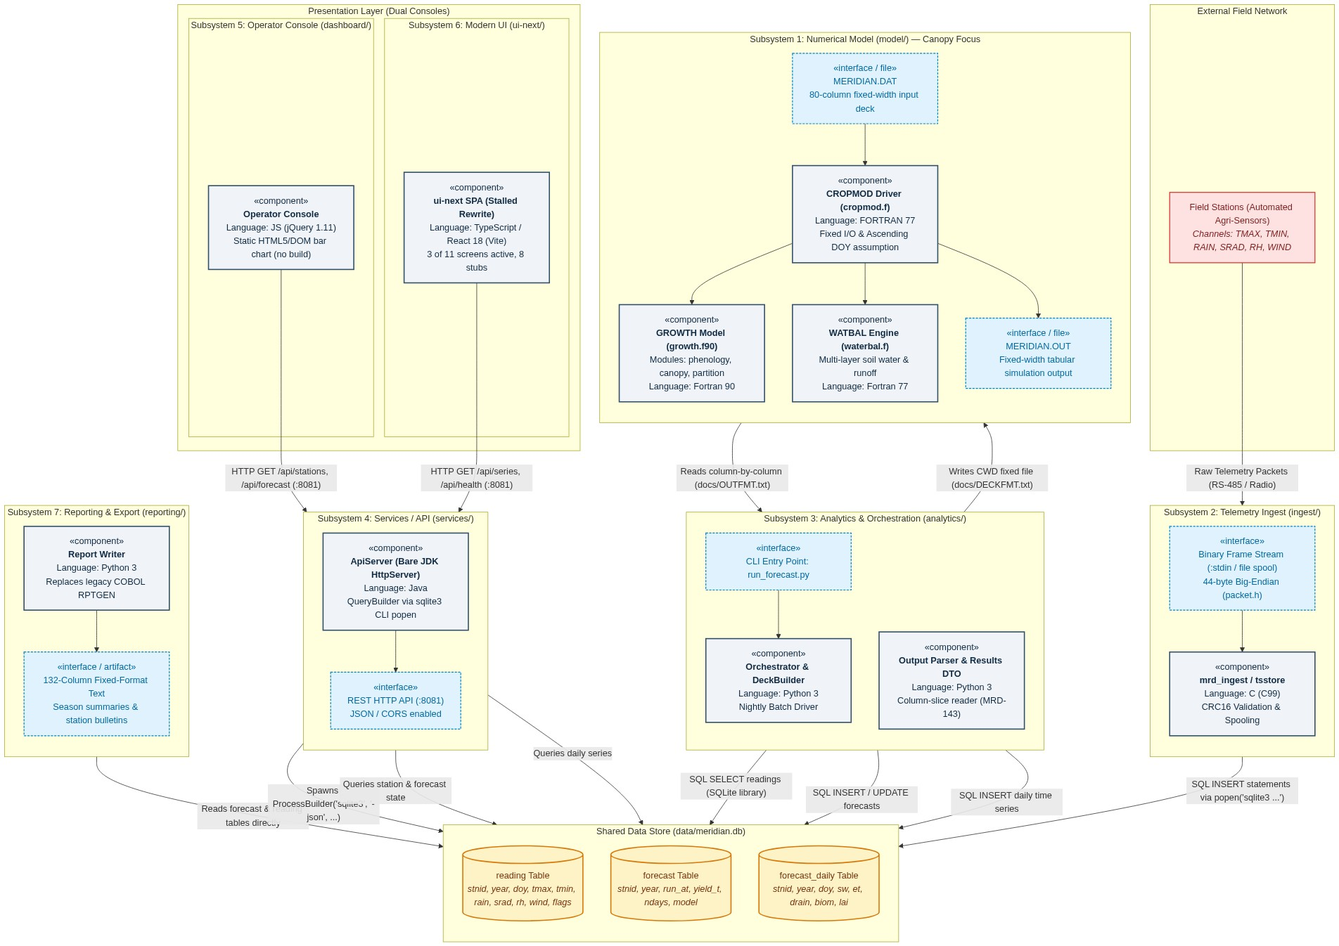
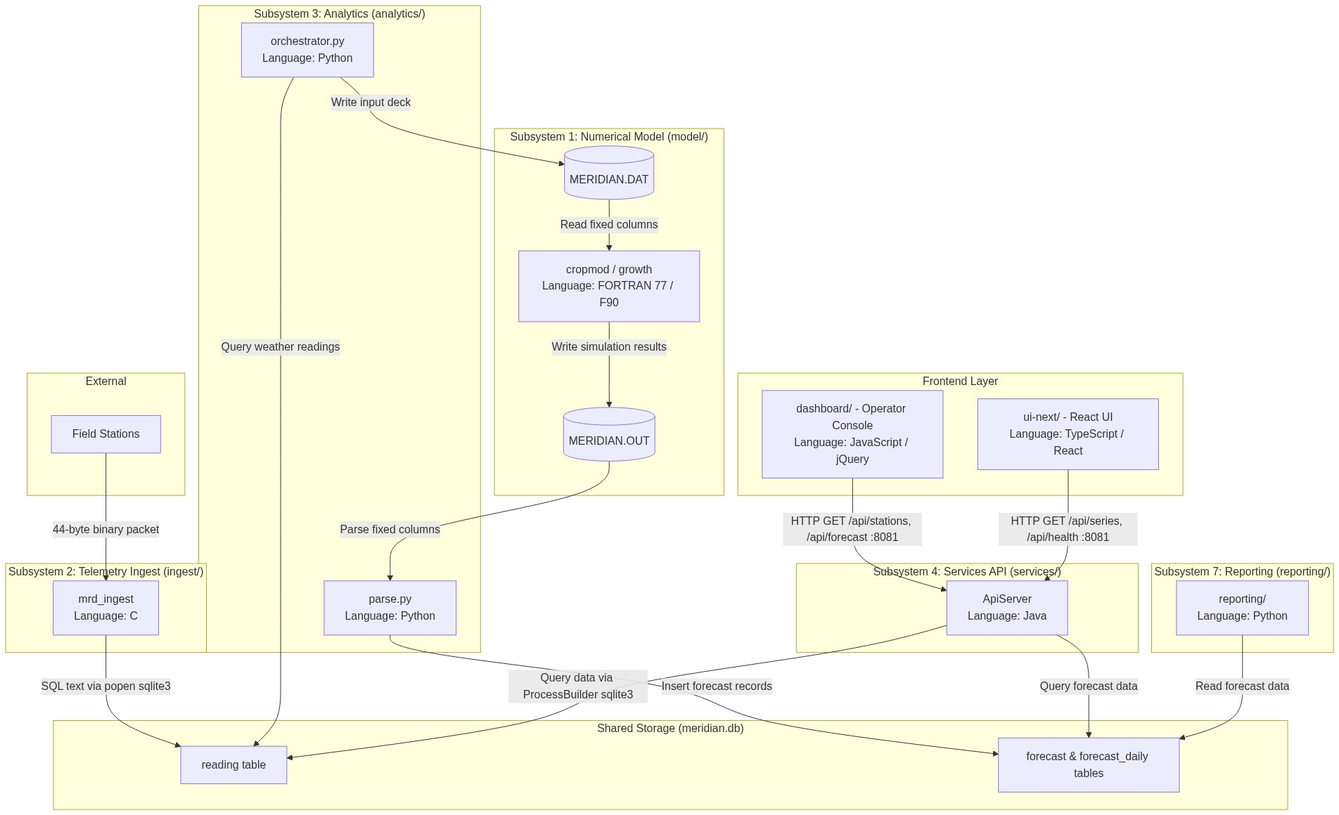
Major Part 1 overhaul; edited, fixed, and confirmed AI output

diff --git a/docs/part1_system_map.md b/docs/part1_system_map.md
@@ -1,248 +1,117 @@
-# Part 1: System Map & README Audit (Whole System)
+# Part 1: System Map (Whole System)
 
-**Team:** Canopy  
-**Subsystem Focus:** Numerical Model (`model/` — Crop-growth / `cropmod`)  
-**Deliverable:** Recovered System Architecture, UML Component Model, and Documentation Audit  
+## Subsystem Overview
 
----
+The Meridian codebase is split across seven subsystems and five programming languages (FORTRAN, C, Python, Java, and JavaScript/TypeScript). Each subsystem has a specific role and interface:
 
-## 1. Executive Summary: Recovered Real Architecture
-
-Meridian is not a conventional 3-tier web application as claimed in its legacy documentation. Through code reconnaissance and git archaeology, the actual system is revealed to be a **seven-subsystem, polyglot agri-environmental monitoring and yield-forecasting pipeline** spanning three decades of engineering (1994–2026) across five programming languages (FORTRAN 77/90, C99, Python 3, Java, and TypeScript/JavaScript).
-
-Rather than communicating through modern enterprise message buses or an ORM-backed relational database cluster, Meridian operates as a **hybrid batch pipeline centred around an embedded SQLite flat-file store and fixed-format file I/O**:
-1. Field telemetry is ingested via a native **C** daemon (`ingest/`).
-2. An embedded **SQLite** database (`data/meridian.db`) serves as the universal decoupled message bus.
-3. A **Python** analytics engine (`analytics/`) extracts raw observations and constructs rigid, 80-column punchcard-era input decks (`MERIDIAN.DAT`).
-4. A legacy **FORTRAN 77 / Fortran 90** agronomic simulation engine (`model/cropmod`) runs synchronously in the current working directory, writing fixed-width output (`MERIDIAN.OUT`).
-5. The Python analytics layer slices the model output column-by-column to populate forecast tables.
-6. A stripped-down **Java** HTTP server (`services/`) shells out to the `sqlite3` CLI tool to serve JSON REST endpoints.
-7. **Two separate frontends** co-exist in production: a legacy jQuery console (`dashboard/`) and a stalled 2023 React SPA rewrite (`ui-next/`).
-8. A standalone **Python** reporting package (`reporting/`) outputs 132-column text bulletins directly for field agronomists.
-
----
-
-## 2. Subsystem Decomposition Table
-
-The table below describes the seven real subsystems recovered from the source tree:
-
-| # | Subsystem & Path | Implementation Language | One-Line Responsibility | Exposed Interface & Protocol |
+| Subsystem | Directory | Language | Responsibility | Exposed Interface |
 |---|---|---|---|---|
-| **1** | **Numerical Model**<br>`model/` | FORTRAN 77 & Fortran 90 | Simulates soil-water balance, daily crop canopy development, and grain yield accumulation. | **File I/O Interface:** Reads column-exact 80-column `MERIDIAN.DAT` on Unit 10; writes column-exact `MERIDIAN.OUT` on Unit 20 in CWD. |
-| **2** | **Telemetry Ingest**<br>`ingest/` | C (C99 standard) | Decodes binary field-station packets, validates CRC-16 checksums and quality flags, and spools readings. | **Binary Stream Interface:** Consumes 44-byte big-endian frames (`packet.h`) via stdin or spool files; outputs SQL via `popen("sqlite3 ...")`. |
-| **3** | **Analytics & Orchestration**<br>`analytics/` | Python 3 | Orchestrates nightly forecast runs: queries readings, formats Fortran decks, executes `cropmod`, parses output, and persists forecasts. | **CLI / Python Module Interface:** Invoked via `run_forecast.py` / `orchestrator.py`; reads `reading` table; populates `forecast` and `forecast_daily` SQLite tables. |
-| **4** | **Services / API**<br>`services/` | Java (bare JDK `HttpServer`) | Exposes weather series, station registries, and yield forecasts over HTTP for client applications. | **HTTP/JSON REST API:** Serves endpoints on port `8081` (`/api/health`, `/api/stations`, `/api/forecast`, `/api/series`, `/api/anomalies`, `/api/summary`) with CORS enabled. |
-| **5** | **Operator Console**<br>`dashboard/` | JavaScript (jQuery 1.11), HTML5, CSS | Provides a zero-build legacy web dashboard with tabular station monitors and a hand-rolled DOM bar chart. | **HTTP Web UI:** Served on port `8080` (static HTML/CSS/JS assets); consumes REST API on port `8081`. |
-| **6** | **ui-next**<br>`ui-next/` | TypeScript, React 18, Vite | Stalled 2023 modern single-page console rewrite (3 of 11 screens active: Stations, Forecast, Health; 8 screens stubbed). | **Modern Web SPA:** Served via Vite dev server (`:5173`) or static bundle; consumes REST API on port `8081`. |
-| **7** | **Reporting & Export**<br>`reporting/` | Python 3 | Generates fixed-format 132-column text reports and seasonal yield summaries for provincial agronomists. | **CLI Suite Interface:** Invoked via `python -m reporting ...`; reads SQLite forecast tables; emits fixed-format text bulletins to stdout or files. |
+| **Numerical Model** | `model/` | FORTRAN 77 / F90 | Computes daily soil moisture, crop canopy growth, and final grain yield. | Reads `MERIDIAN.DAT` and writes `MERIDIAN.OUT` in the current working directory. |
+| **Telemetry Ingest** | `ingest/` | C | Parses 44-byte binary station frames, validates CRC-16 checksums, and saves readings. | Binary frame stream on stdin or spool file (`packet.h`); writes to SQLite `reading` table. |
+| **Analytics & Orchestration** | `analytics/` | Python | Runs the nightly batch by extracting readings, building model decks, executing `cropmod`, and saving forecasts. | CLI script `run_forecast.py`; writes to SQLite `forecast` and `forecast_daily` tables. |
+| **Services / API** | `services/` | Java | Serves station data, weather series, and forecast summaries to the web frontends. | REST HTTP API on port 8081 (`/api/forecast`, `/api/series`, `/api/stations`, `/api/health`). |
+| **Operator Console** | `dashboard/` | JavaScript (jQuery) | Legacy operator dashboard showing station tables and a DOM-based bar chart without a build step. | Static web assets served on port 8080 (makes HTTP calls to port 8081). |
+| **ui-next** | `ui-next/` | TypeScript / React | Work-in-progress React replacement for the console (3 of 11 screens implemented, 8 stubs). | Single-page web application served on port 5173 (makes HTTP calls to port 8081). |
+| **Reporting & Export** | `reporting/` | Python | Produces fixed-format 132-column text reports and seasonal summaries for agronomists. | CLI suite (`python -m reporting`); reads SQLite forecast tables and prints text reports. |
 
 ---
 
-## 3. Architecture Component Diagram
+## Architecture Component Diagram
 
-The UML Component Diagram below illustrates all seven subsystems, their languages, persistent data boundaries, and control/data vectors.
+The diagram below shows the seven subsystems, their implementation languages, and how data and control pass between them:
 
 ```mermaid
 flowchart TB
-    %% ========================================================
-    %% MERIDIAN ARCHAEOLOGY - A2 SYSTEM MAP COMPONENT DIAGRAM
-    %% Team Canopy: Whole-System Architecture
-    %% ========================================================
-
-    subgraph EXTERNAL["External Field Network"]
-        FS["Field Stations (Automated Agri-Sensors)<br><i>Channels: TMAX, TMIN, RAIN, SRAD, RH, WIND</i>"]
+    subgraph External
+        FS[Field Stations]
     end
 
-    subgraph SUBSYSTEM_INGEST["Subsystem 2: Telemetry Ingest (ingest/)"]
-        direction TB
-        ING_COMP["&laquo;component&raquo;<br><b>mrd_ingest / tsstore</b><br>Language: C (C99)<br>CRC16 Validation &amp; Spooling"]
-        ING_IF["&laquo;interface&raquo;<br>Binary Frame Stream (:stdin / file spool)<br>44-byte Big-Endian (packet.h)"]
-        ING_IF --> ING_COMP
+    subgraph "Subsystem 2: Telemetry Ingest (ingest/)"
+        ING[mrd_ingest<br/>Language: C]
     end
 
-    subgraph STORAGE["Shared Data Store (data/meridian.db)"]
-        direction TB
-        DB_READING[("reading Table<br><i>stnid, year, doy, tmax, tmin, rain, srad, rh, wind, flags</i>")]
-        DB_FORECAST[("forecast Table<br><i>stnid, year, run_at, yield_t, ndays, model</i>")]
-        DB_DAILY[("forecast_daily Table<br><i>stnid, year, doy, sw, et, drain, biom, lai</i>")]
+    subgraph "Shared Storage (meridian.db)"
+        DB_READ[reading table]
+        DB_FC[forecast & forecast_daily tables]
     end
 
-    subgraph SUBSYSTEM_ANALYTICS["Subsystem 3: Analytics &amp; Orchestration (analytics/)"]
-        direction TB
-        ORCH_COMP["&laquo;component&raquo;<br><b>Orchestrator &amp; DeckBuilder</b><br>Language: Python 3<br>Nightly Batch Driver"]
-        PARSE_COMP["&laquo;component&raquo;<br><b>Output Parser &amp; Results DTO</b><br>Language: Python 3<br>Column-slice reader (MRD-143)"]
-        ORCH_CLI["&laquo;interface&raquo;<br>CLI Entry Point: run_forecast.py"]
-        ORCH_CLI --> ORCH_COMP
+    subgraph "Subsystem 3: Analytics (analytics/)"
+        ORCH[orchestrator.py<br/>Language: Python]
+        PARSER[parse.py<br/>Language: Python]
     end
 
-    subgraph SUBSYSTEM_MODEL["Subsystem 1: Numerical Model (model/) &mdash; Canopy Focus"]
-        direction TB
-        MODEL_DRIVER["&laquo;component&raquo;<br><b>CROPMOD Driver (cropmod.f)</b><br>Language: FORTRAN 77<br>Fixed I/O &amp; Ascending DOY assumption"]
-        MODEL_GROWTH["&laquo;component&raquo;<br><b>GROWTH Model (growth.f90)</b><br>Modules: phenology, canopy, partition<br>Language: Fortran 90"]
-        MODEL_WATBAL["&laquo;component&raquo;<br><b>WATBAL Engine (waterbal.f)</b><br>Multi-layer soil water &amp; runoff<br>Language: Fortran 77"]
-        
-        MODEL_DRIVER --> MODEL_GROWTH
-        MODEL_DRIVER --> MODEL_WATBAL
-        
-        IN_DECK["&laquo;interface / file&raquo;<br>MERIDIAN.DAT<br>80-column fixed-width input deck"]
-        OUT_FILE["&laquo;interface / file&raquo;<br>MERIDIAN.OUT<br>Fixed-width tabular simulation output"]
-        
-        IN_DECK --> MODEL_DRIVER
-        MODEL_DRIVER --> OUT_FILE
+    subgraph "Subsystem 1: Numerical Model (model/)"
+        MODEL[cropmod / growth<br/>Language: FORTRAN 77 / F90]
+        IN_FILE[(MERIDIAN.DAT)]
+        OUT_FILE[(MERIDIAN.OUT)]
     end
 
-    subgraph SUBSYSTEM_SERVICES["Subsystem 4: Services / API (services/)"]
-        direction TB
-        API_COMP["&laquo;component&raquo;<br><b>ApiServer (Bare JDK HttpServer)</b><br>Language: Java<br>QueryBuilder via sqlite3 CLI popen"]
-        API_IF["&laquo;interface&raquo;<br>REST HTTP API (:8081)<br>JSON / CORS enabled"]
-        API_COMP --> API_IF
+    subgraph "Subsystem 4: Services API (services/)"
+        API[ApiServer<br/>Language: Java]
     end
 
-    subgraph CLIENTS["Presentation Layer (Dual Consoles)"]
-        subgraph SUBSYSTEM_DASHBOARD["Subsystem 5: Operator Console (dashboard/)"]
-            DASH_COMP["&laquo;component&raquo;<br><b>Operator Console</b><br>Language: JS (jQuery 1.11)<br>Static HTML5/DOM bar chart (no build)"]
-        end
-
-        subgraph SUBSYSTEM_UINEXT["Subsystem 6: Modern UI (ui-next/)"]
-            UINEXT_COMP["&laquo;component&raquo;<br><b>ui-next SPA (Stalled Rewrite)</b><br>Language: TypeScript / React 18 (Vite)<br>3 of 11 screens active, 8 stubs"]
-        end
+    subgraph "Frontend Layer"
+        DASH[dashboard/ - Operator Console<br/>Language: JavaScript / jQuery]
+        UINEXT[ui-next/ - React UI<br/>Language: TypeScript / React]
     end
 
-    subgraph SUBSYSTEM_REPORTING["Subsystem 7: Reporting &amp; Export (reporting/)"]
-        direction TB
-        REP_COMP["&laquo;component&raquo;<br><b>Report Writer</b><br>Language: Python 3<br>Replaces legacy COBOL RPTGEN"]
-        REP_OUT["&laquo;interface / artifact&raquo;<br>132-Column Fixed-Format Text<br>Season summaries &amp; station bulletins"]
-        REP_COMP --> REP_OUT
+    subgraph "Subsystem 7: Reporting (reporting/)"
+        REP[reporting/<br/>Language: Python]
     end
 
-    %% Data and Control Flow Interconnections
-    FS -->|"Raw Telemetry Packets (RS-485 / Radio)"| ING_IF
-    ING_COMP -->|"SQL INSERT statements via popen('sqlite3 ...')"| DB_READING
+    %% Data and control connections
+    FS -->|44-byte binary packet| ING
+    ING -->|SQL text via popen sqlite3| DB_READ
 
-    ORCH_COMP -->|"SQL SELECT readings (SQLite library)"| DB_READING
-    ORCH_COMP -->|"Writes CWD fixed file (docs/DECKFMT.txt)"| IN_DECK
-    OUT_FILE -->|"Reads column-by-column (docs/OUTFMT.txt)"| PARSE_COMP
-    PARSE_COMP -->|"SQL INSERT / UPDATE forecasts"| DB_FORECAST
-    PARSE_COMP -->|"SQL INSERT daily time series"| DB_DAILY
+    ORCH -->|Query weather readings| DB_READ
+    ORCH -->|Write input deck| IN_FILE
+    IN_FILE -->|Read fixed columns| MODEL
+    MODEL -->|Write simulation results| OUT_FILE
+    OUT_FILE -->|Parse fixed columns| PARSER
+    PARSER -->|Insert forecast records| DB_FC
 
-    API_COMP -->|"Spawns ProcessBuilder('sqlite3', '-json', ...)"| DB_READING
-    API_COMP -->|"Queries station &amp; forecast state"| DB_FORECAST
-    API_COMP -->|"Queries daily series"| DB_DAILY
+    API -->|Query data via ProcessBuilder sqlite3| DB_READ
+    API -->|Query forecast data| DB_FC
 
-    DASH_COMP -->|"HTTP GET /api/stations, /api/forecast (:8081)"| API_IF
-    UINEXT_COMP -->|"HTTP GET /api/series, /api/health (:8081)"| API_IF
+    DASH -->|HTTP GET /api/stations, /api/forecast :8081| API
+    UINEXT -->|HTTP GET /api/series, /api/health :8081| API
 
-    REP_COMP -->|"Reads forecast &amp; reading tables directly"| STORAGE
-
-    %% Styling
-    classDef comp fill:#f0f4f8,stroke:#334e68,stroke-width:2px,color:#102a43;
-    classDef iface fill:#e0f2fe,stroke:#0284c7,stroke-width:1.5px,stroke-dasharray: 4 2,color:#0369a1;
-    classDef store fill:#fef3c7,stroke:#d97706,stroke-width:2px,color:#78350f;
-    classDef ext fill:#fee2e2,stroke:#dc2626,stroke-width:1.5px,color:#7f1d1d;
-
-    class ING_COMP,ORCH_COMP,PARSE_COMP,MODEL_DRIVER,MODEL_GROWTH,MODEL_WATBAL,API_COMP,DASH_COMP,UINEXT_COMP,REP_COMP comp;
-    class ING_IF,IN_DECK,OUT_FILE,API_IF,REP_OUT,ORCH_CLI iface;
-    class DB_READING,DB_FORECAST,DB_DAILY store;
-    class FS ext;
+    REP -->|Read forecast data| DB_FC
 ```
 
----
+### Data and Control Flow Summary
 
-## 4. Where Does the README Lie? (Documentation vs. Reality Audit)
-
-The repository's top-level [README.md](file:///Users/unsurhussain/Meridian-Archaeology-Canopy/README.md) was originally committed on **2015-11-04** (commit `66a45e3` by D. Ferreira) and has not been updated to reflect the substantial architectural migrations of the past decade. It paints a picture of an orthodox Java EE / Spring application backed by PostgreSQL. In reality, trusting this README would completely derail a new maintainer.
-
-Below are **four concrete falsehoods** in the project's documentation, cross-referenced with exact code citations and git history:
-
-### Lie 1: The Database Architecture (PostgreSQL vs. Embedded SQLite)
-* **README Claim (Line 19):**
-  > *"The reading store is a PostgreSQL instance on `db01.meridian.internal`."*
-* **What the Code Actually Does:**
-  There is **no PostgreSQL database anywhere in Meridian**. There is no JDBC driver, no connection pool, and no TCP connection string to any database server. The true reading and forecast store is a local, embedded **SQLite flat file** (`data/meridian.db`). 
-* **Concrete Proof in Code:**
-  1. **Ingest Subsystem:** In [ingest/src/tsstore.c:L27-28](file:///Users/unsurhussain/Meridian-Archaeology-Canopy/ingest/src/tsstore.c#L27-L28), the C collector establishes its storage pipeline by executing:
-     ```c
-     snprintf(cmd, sizeof(cmd), "sqlite3 %s", g_path);
-     g_pipe = popen(cmd, "w");
-     ```
-     It literally pipes raw SQL text directly into the command-line `sqlite3` process!
-  2. **Services Subsystem:** In [services/src/ca/meridian/db/Db.java:L13-32](file:///Users/unsurhussain/Meridian-Archaeology-Canopy/services/src/ca/meridian/db/Db.java#L13-L32), the author A. Okonkwo explicitly writes:
-     > *"The collector host never had the SQLite JDBC driver installed and the deployment process for adding one was never agreed, so this class shells out to the sqlite3 command line and reads its JSON output. It was meant to be temporary. See MRD-77."*
-     The query execution uses:
-     ```java
-     ProcessBuilder pb = new ProcessBuilder("sqlite3", "-json", dbPath, sql);
-     ```
-  3. **Analytics Subsystem:** In [analytics/meridian/store.py:L26-30](file:///Users/unsurhussain/Meridian-Archaeology-Canopy/analytics/meridian/store.py#L26-L30), Python uses standard `sqlite3.connect(self.db_path)`.
-* **Hazard:** A maintainer attempting to provision a PostgreSQL server or connect via port 5432 will find zero code that connects to it.
+1. **Ingest:** Field stations transmit 44-byte binary frames to `ingest/`. The C collector validates the packet CRC-16 and pipes SQL `INSERT` commands into the local SQLite database (`meridian.db`).
+2. **Nightly Batch:** The Python orchestrator (`analytics/orchestrator.py`) queries the `reading` table, prepares a fixed-width input deck named `MERIDIAN.DAT`, and calls the Fortran binary (`model/cropmod`).
+3. **Model Execution:** `cropmod` runs `waterbal.f` and `growth.f90`, then writes the output to `MERIDIAN.OUT`. The Python parser reads `MERIDIAN.OUT` by column position (handling column overflows per ticket MRD-143) and stores the results in the `forecast` and `forecast_daily` tables.
+4. **API and Display:** The Java HTTP server (`services/ApiServer.java`) reads SQLite rows and serves JSON responses on port 8081. Both frontends (`dashboard/` and `ui-next/`) fetch data from this API. The Python reporting tool (`reporting/`) reads SQLite directly to output text bulletins.
 
 ---
 
-### Lie 2: Subsystem Scope (Three-Tier App vs. Seven Subsystems)
-* **README Claim (Lines 11–17):**
-  > *"Meridian is a three-tier application: 1. Collector (`ingest/`), 2. Application server (`services/`), 3. Web client (`dashboard/`)."*
-* **What the Code Actually Does:**
-  The README omits **more than half of the codebase**! Meridian is a seven-subsystem distributed data processing pipeline. Most critically, the README fails to mention:
-  * `model/`: The entire 30-year-old core agronomy simulation engine written in FORTRAN 77 and Fortran 90 ([cropmod.f](file:///Users/unsurhussain/Meridian-Archaeology-Canopy/model/cropmod.f), [growth.f90](file:///Users/unsurhussain/Meridian-Archaeology-Canopy/model/growth.f90)).
-  * `analytics/`: The Python batch orchestrator that runs nightly forecasts, parses output, and aggregates stats.
-  * `reporting/`: The Python reporting suite that generates 132-column text bulletins.
-  * `ui-next/`: The active, stalled React 18 / TypeScript SPA rewrite. Both consoles currently ship simultaneously!
-* **Hazard:** A developer reading the README would not even know that Fortran compilers (`gfortran`) or Python environments are required to execute the core business value of Meridian (crop yield forecasting).
+## Where Does the README Lie?
 
----
+The top-level `README.md` was written in November 2015 (commit `66a45e3`) and has not been kept up to date with the actual codebase. A new maintainer relying on it would be misled in several critical ways:
 
-### Lie 3: Batch Scheduling & Server Framework (Spring Boot Quartz vs. Bare JDK & Python Cron)
-* **README Claim (Lines 15–16 & 27–30):**
-  > *"Application server (`services/`) is a Spring Boot application exposing the REST API and the scheduled batch jobs... The batch is scheduled by the application server's Quartz configuration. See `services/src/main/resources/quartz.properties`."*
-* **What the Code Actually Does:**
-  * The file `services/src/main/resources/quartz.properties` **does not exist**.
-  * Spring Boot was completely decommissioned in February 2017 (commit `e3acae7` by M. Brandt: *"Reduce service layer to the JDK HTTP server; add DTOs"*).
-  * In [services/src/ca/meridian/api/ApiServer.java:L17-21](file:///Users/unsurhussain/Meridian-Archaeology-Canopy/services/src/ca/meridian/api/ApiServer.java#L17-L21), the code documents:
-    > *"Started as a Spring application in 2014 and reduced to the JDK HTTP server in 2017 when the container host was retired. The package layout still reflects the Spring structure."*
-    The server uses `com.sun.net.httpserver.HttpServer`.
-  * The Java application server schedules **nothing**. The nightly batch is driven by a standalone Python CLI script invoked by host `cron`: [analytics/run_forecast.py:L2](file:///Users/unsurhussain/Meridian-Archaeology-Canopy/analytics/run_forecast.py#L2):
-    > *"Nightly forecast entry point. Invoked from cron on the app host."*
-* **Hazard:** Looking for Spring annotations, `@Scheduled` tasks, or Quartz jobs will lead nowhere; changes made expecting Spring dependency injection will fail to compile.
+### 1. The Database Architecture Lie
+* **README Claim (Line 19):**  
+  *"The reading store is a PostgreSQL instance on `db01.meridian.internal`."*
+* **What the Code Actually Does:**  
+  There is no PostgreSQL instance or client library in the repository. The system uses a local, flat-file **SQLite** database (`meridian.db`). Furthermore, neither the C ingest tool nor the Java service link to a database driver:
+  * In `ingest/src/tsstore.c` (lines 27–28), the collector calls `popen("sqlite3 ...")` to run SQL statements.
+  * In `services/src/ca/meridian/db/Db.java` (lines 13–18 and 30), the author notes they could not install a JDBC driver and instead uses `ProcessBuilder("sqlite3", "-json", ...)` to shell out to the CLI.
 
----
+### 2. The Application Architecture Lie
+* **README Claim (Lines 11–17):**  
+  Meridian is described as a *"three-tier application"* consisting of only the Collector (`ingest/`), Application server (`services/`), and Web client (`dashboard/`).
+* **What the Code Actually Does:**  
+  Meridian actually contains **seven distinct subsystems across five languages**. The README completely ignores:
+  * `model/`: The core numerical crop and water balance model written in FORTRAN 77 and Fortran 90.
+  * `analytics/`: The Python batch driver that builds model input decks and parses outputs.
+  * `reporting/`: The Python CLI tool that generates fixed-format agronomist reports.
+  * `ui-next/`: The partial React 18 rewrite of the operator dashboard.
 
-### Lie 4: Build System & Dependencies (`./gradlew build` vs. Makefiles & Shell Scripts)
-* **README Claim (Lines 21–25):**
-  > *"Building: `./gradlew build`. Requires JDK 8 and PostgreSQL 9.4 client libraries."*
-* **What the Code Actually Does:**
-  * There is no Gradle wrapper (`./gradlew`), no `build.gradle`, no Gradle cache, and no PostgreSQL client libraries (`libpq-dev`).
-  * The top-level build is governed by a unified [Makefile](file:///Users/unsurhussain/Meridian-Archaeology-Canopy/Makefile), which orchestrates sub-builds:
-    * `make -C model` invokes `gfortran` to compile the Fortran numerical engine.
-    * `make -C ingest` invokes `gcc` to compile the C telemetry collector.
-    * `./services/build.sh` invokes raw `javac` to build the Java classes into `services/build/classes`.
-    * `dashboard` has no build step (see ticket **MRD-181**).
-    * `ui-next` requires `npm install` and `npm run build` (Vite).
-* **Hazard:** Automated CI/CD pipelines configured based on the README's `./gradlew build` directive will immediately fail with a missing executable error.
-
----
-
-## 5. Summary of Architectural Hazards (Bridge to A3)
-
-Trusting stale documentation in long-lived production systems (like Meridian) is hazardous because architectural changes are often made under operational duress without updating the docs:
-1. **The Temporary Hack Fallacy (MRD-77):** Shelling out to `sqlite3` was written as a "temporary" measure in 2012 and 2014 because deploying native SQLite drivers proved difficult. It has now been active across multiple subsystems for over a decade.
-2. **Hidden Batch Dependencies (MRD-201):** The numerical model (`cropmod`) reads and writes fixed filenames (`MERIDIAN.DAT`, `MERIDIAN.OUT`) in its current working directory. Because the README hid the existence of `model/` and `analytics/`, maintainers were unaware of why the nightly batch could not be scaled horizontally or parallelised across multiple CPU cores.
-
----
-
-## 6. Agent Appendix Contribution (Part 1 Audit)
-
-As required by Section 7 of the assignment specification, below is an honest record of AI agent interactions, claims verified against the codebase, and errors caught during the Part 1 investigation:
-
-1. **AI Claim on Subsystem Filepaths:**
-   * *Claim:* The AI agent originally assumed that `tsstore.c` was located directly at `ingest/tsstore.c`.
-   * *Verification:* Running file system inspection revealed `tsstore.c` was actually located in a nested `ingest/src/` directory (`ingest/src/tsstore.c`).
-   * *Impact:* Correct filepaths were established in the citations and component diagrams.
-
-2. **AI Claim on Numerical Model Implementation Language:**
-   * *Claim:* The AI agent initially generalized the numerical model as simply "Fortran 90".
-   * *Verification:* Inspected `model/cropmod.f` and observed fixed-column format, `C` comment indicators, and column-6 continuation lines standard in **FORTRAN 77**, whereas subroutines like `growth.f90`, `canopy.f90`, and `phenology.f90` utilize modern **Fortran 90** free-form syntax and modules.
-   * *Correction:* Updated the architectural map and subsystem decomposition to accurately designate the subsystem as a hybrid **FORTRAN 77 + Fortran 90** codebase.
-
-3. **Verification of the "Spring Boot Quartz" Claim:**
-   * *AI Suggestion:* The agent flagged that `services/src/main/resources/quartz.properties` mentioned in the README might be stale.
-   * *Verification:* Ran `grep` and file listing across `services/`. Confirmed that no `resources/` folder or `quartz.properties` exists, and discovered commit `e3acae7` ("Reduce service layer to the JDK HTTP server"), validating that Spring Boot and Quartz were completely removed from the project in 2017.
-
+### 3. The Batch Scheduling and Framework Lie
+* **README Claim (Lines 15–16 & 27–30):**  
+  The application server is described as a *"Spring Boot application"* and the nightly batch is *"scheduled by the application server's Quartz configuration. See `services/src/main/resources/quartz.properties`."*
+* **What the Code Actually Does:**  
+  Spring Boot and Quartz were completely removed in February 2017 (commit `e3acae7`). The directory `services/src/main/resources/quartz.properties` does not exist. The Java service now runs as a bare JDK `HttpServer` (`services/src/ca/meridian/api/ApiServer.java`), and the nightly forecast batch is executed independently by a Python script (`analytics/run_forecast.py`) via Linux cron.
